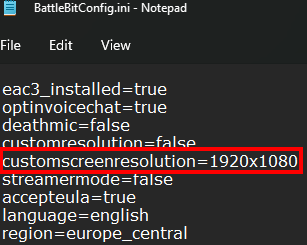
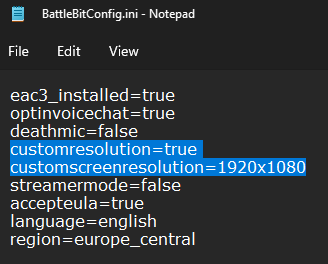
Updating "Wrong Resolution" with additional configuration
Adding that the user has to change the customresolution value to true, updated line 3 for guide

diff --git a/crashes/wrong-resolution.md b/crashes/wrong-resolution.md
@@ -14,7 +14,7 @@ This page is for users that have manually adjusted their resolution to a value t
 
 <figure><img src="../.gitbook/assets/appdata_folder_config_file.png" alt=""><figcaption><p>AppData/Roaming folder</p></figcaption></figure>
 
-3. &#x20;Locate the resolution line within this file and adjust it to match your monitor settings:
+3. &#x20;Set `customresolution` to true and `customscreenresolution` to match your monitor settings:
 
 <figure><img src="../.gitbook/assets/config_file.png" alt=""><figcaption><p>BattleBit config file</p></figcaption></figure>
 
